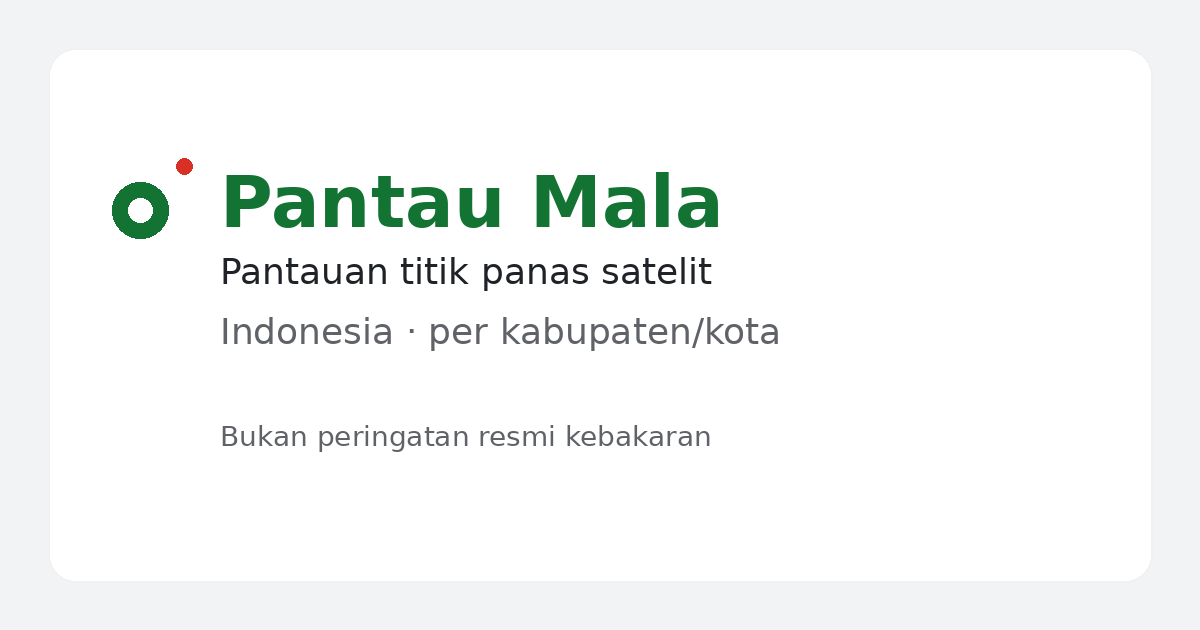
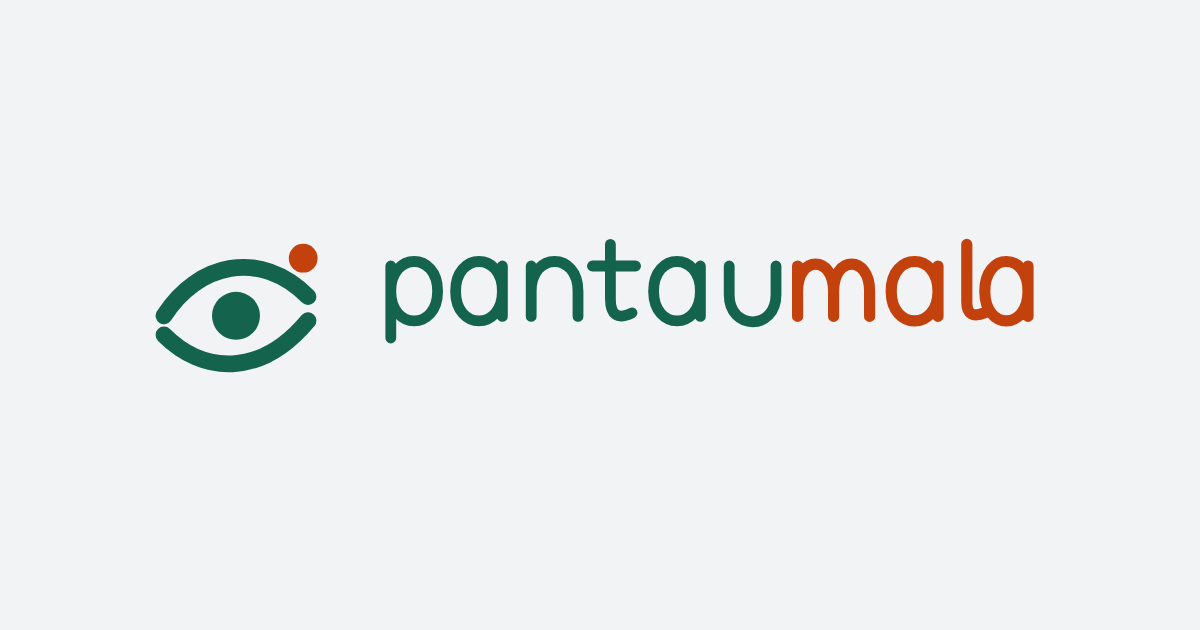
fix: use real pantau mala brand mark in og.png
Rasterize public/og.svg (symbol + wordmark) instead of a
placeholder wordmark, and bust share-image cache to ?v=3.

Changed region(s): [[0.1233, 0.2714, 0.8633, 0.6032], [0.185, 0.6635, 0.5858, 0.7238], [0.0925, 0.2413, 0.185, 0.3921]]

diff --git a/server/og-html.test.ts b/server/og-html.test.ts
@@ -14,7 +14,7 @@ const shell = `<!doctype html><html><head>
 <meta property="og:title" content="old" />
 <meta property="og:description" content="old" />
 <meta property="og:url" content="https://example.test/" />
-<meta property="og:image" content="https://example.test/og.png?v=2" />
+<meta property="og:image" content="https://example.test/og.png?v=3" />
 <link rel="canonical" href="https://example.test/" />
 </head><body></body></html>`
 
@@ -39,7 +39,7 @@ describe('og-html', () => {
     expect(og.title).toContain('Kapuas')
     expect(og.title).toContain('Pantau Mala')
     expect(og.url).toBe('https://pantaumala.live/wilayah/kapuas-6203')
-    expect(og.image).toBe('https://pantaumala.live/og.png?v=2')
+    expect(og.image).toBe('https://pantaumala.live/og.png?v=3')
     expect(og.description).toContain('Bukan peringatan resmi kebakaran')
   })
 
@@ -48,7 +48,7 @@ describe('og-html', () => {
       title: 'Kab. Tes - Pantau Mala',
       description: 'Deskripsi uji.',
       url: 'https://pantaumala.live/wilayah/kab-tes-6299',
-      image: 'https://pantaumala.live/og.png?v=2',
+      image: 'https://pantaumala.live/og.png?v=3',
       imageAlt: 'alt',
     })
     expect(html).toContain('<title>Kab. Tes - Pantau Mala</title>')

diff --git a/index.html b/index.html
@@ -24,7 +24,7 @@
       content="Pantau Mala (pantaumala). Peta titik panas satelit per kabupaten/kota di Indonesia. Bukan peringatan resmi kebakaran."
     />
     <meta property="og:url" content="https://pantaumala.live/" />
-    <meta property="og:image" content="https://pantaumala.live/og.png?v=2" />
+    <meta property="og:image" content="https://pantaumala.live/og.png?v=3" />
     <meta property="og:image:width" content="1200" />
     <meta property="og:image:height" content="630" />
     <meta
@@ -37,7 +37,7 @@
       name="twitter:description"
       content="Pantau Mala (pantaumala). Peta titik panas satelit per kabupaten/kota di Indonesia. Bukan peringatan resmi kebakaran."
     />
-    <meta name="twitter:image" content="https://pantaumala.live/og.png?v=2" />
+    <meta name="twitter:image" content="https://pantaumala.live/og.png?v=3" />
     <script type="application/ld+json">
       {
         "@context": "https://schema.org",

diff --git a/server/cloudflare-worker.test.ts b/server/cloudflare-worker.test.ts
@@ -151,7 +151,7 @@ describe('Cloudflare Worker routing', () => {
 <title>Pantau Mala - Pantauan Titik Panas</title>
 <meta property="og:title" content="Pantau Mala - Pantauan Titik Panas" />
 <meta property="og:url" content="https://pantaumala.live/" />
-<meta property="og:image" content="https://pantaumala.live/og.png?v=2" />
+<meta property="og:image" content="https://pantaumala.live/og.png?v=3" />
 <link rel="canonical" href="https://pantaumala.live/" />
 </head><body></body></html>`
     const env = {

diff --git a/src/lib/page-meta.test.ts b/src/lib/page-meta.test.ts
@@ -27,7 +27,7 @@ describe('page-meta', () => {
     ).toBe('https://pantaumala.live/wilayah/kab-pulang-pisau-6211')
     expect(
       document.querySelector('meta[property="og:image"]')?.getAttribute('content'),
-    ).toBe('https://pantaumala.live/og.png?v=2')
+    ).toBe('https://pantaumala.live/og.png?v=3')
     expect(
       document.querySelector('meta[name="twitter:card"]')?.getAttribute('content'),
     ).toBe('summary_large_image')

diff --git a/src/lib/page-meta.ts b/src/lib/page-meta.ts
@@ -2,7 +2,7 @@ import { getCopy, getLocale } from '@/copy'
 
 const SITE_NAME = 'Pantau Mala'
 // ?v= bust WhatsApp/FB image cache after regenerating public/og.png.
-const OG_IMAGE_PATH = '/og.png?v=2'
+const OG_IMAGE_PATH = '/og.png?v=3'
 const OG_IMAGE_WIDTH = '1200'
 const OG_IMAGE_HEIGHT = '630'
 
